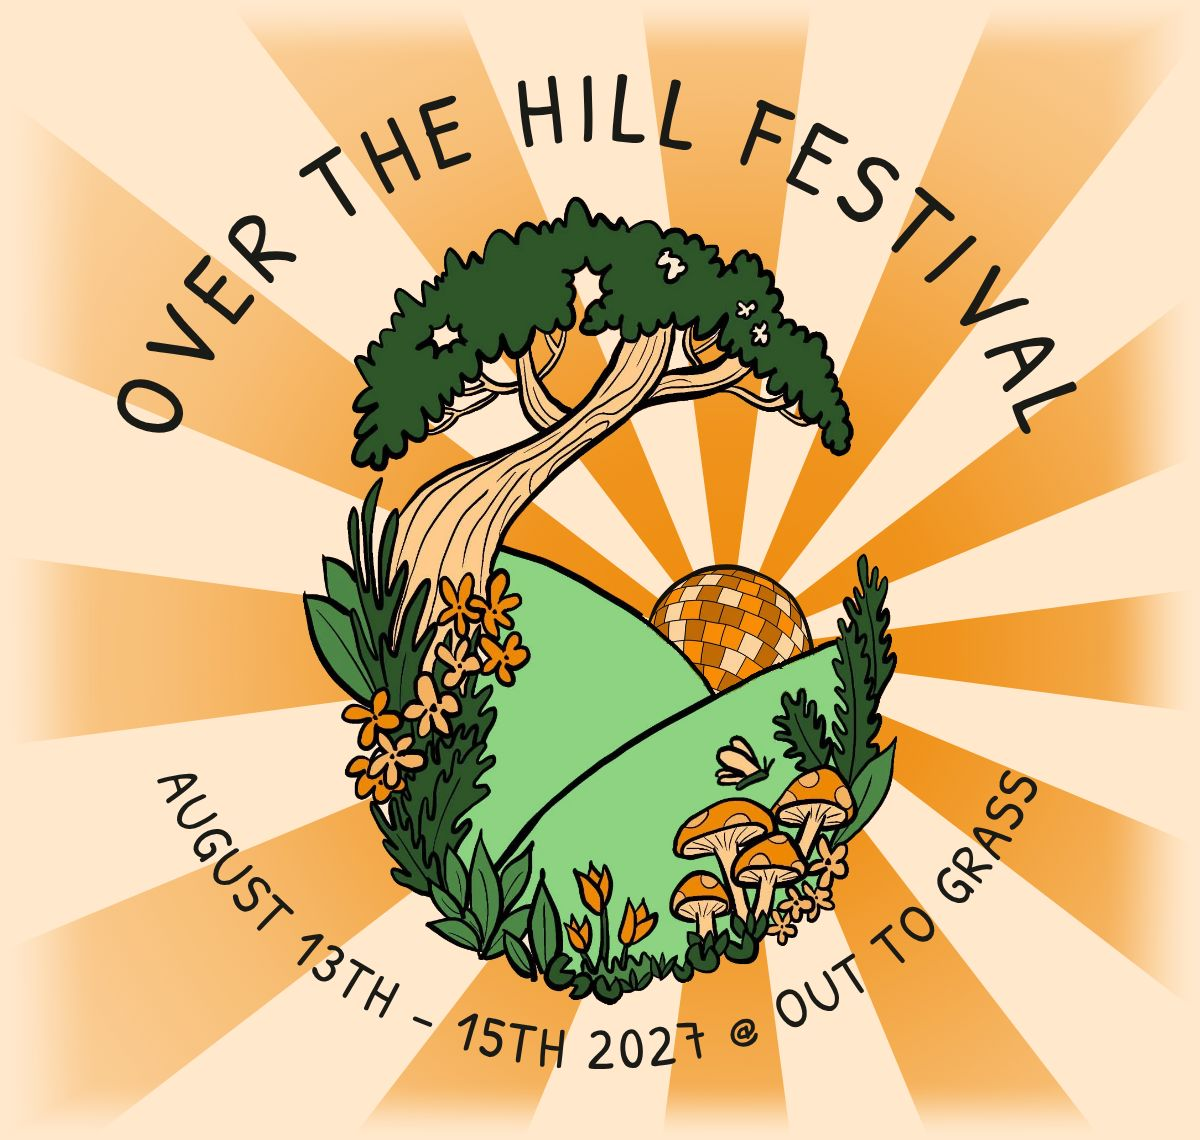
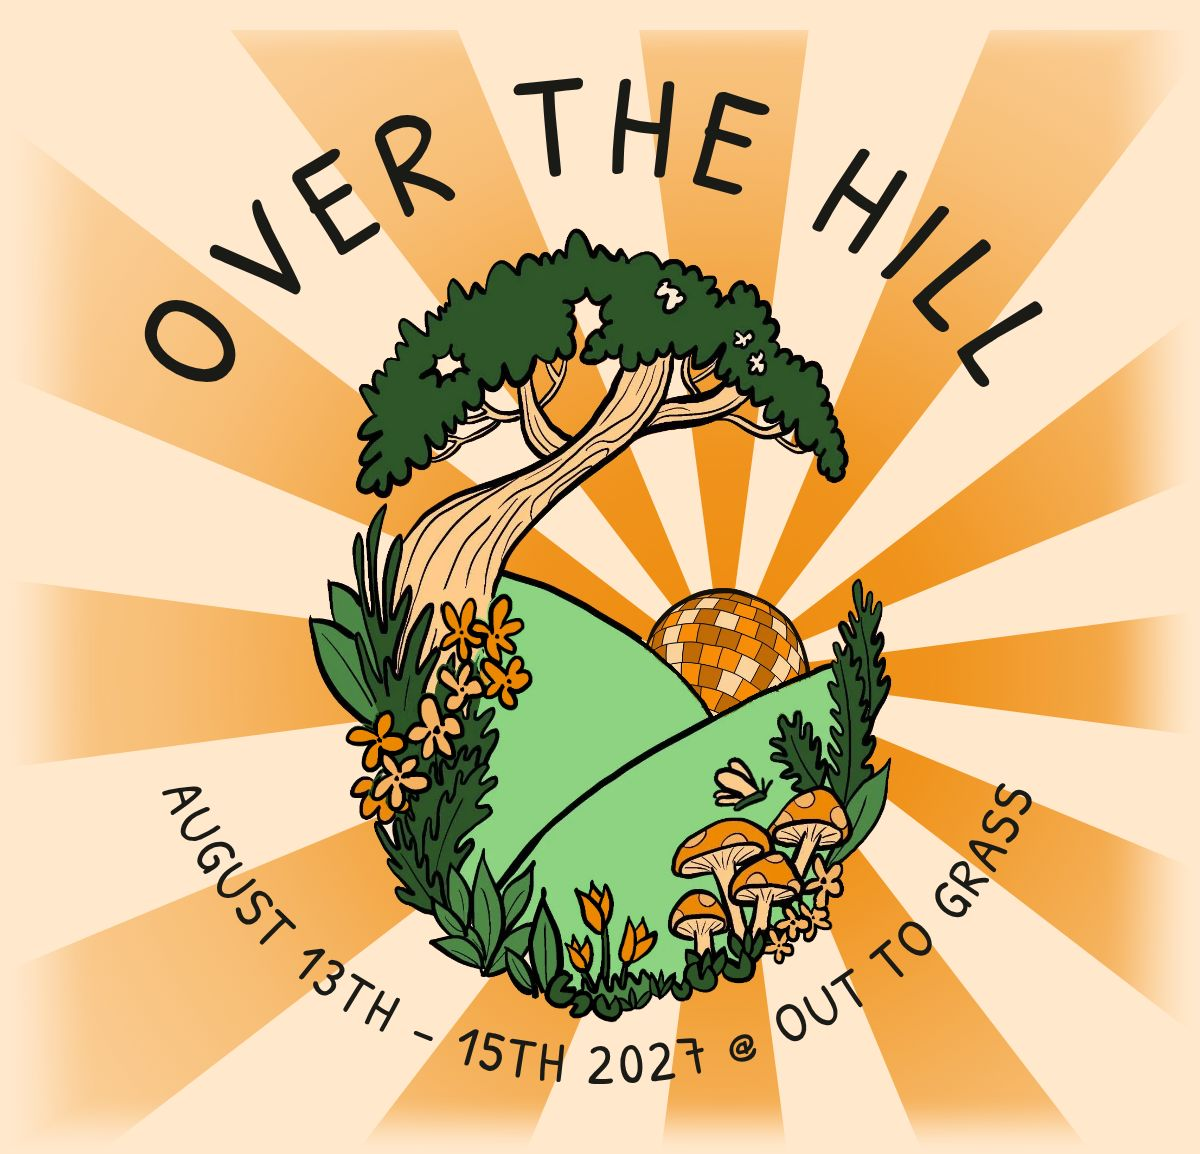
Poster title: "OVER THE HILL", bigger (88px -> 128px)
"Festival" dropped from the arcing title, and the letters made much
bigger to fill the arc. The invite line's arc moves out to clear them,
with room above it, and the poster's fit sums follow, so it stays the
same size on the homepage and invites with everything on the first
screen. The email header image is re-rendered from the new poster.

diff --git a/public/css/style.css b/public/css/style.css
@@ -387,27 +387,27 @@ h2 {
    visible without scrolling. Its width is the smallest of: the page width,
    900px, and the height left under the header (~87px), the top padding,
    the button and some breathing room (205px in all), turned into a width
-   by the 900:875 box plus the invite line's room (1.0282 in all). 300px
+   by the 900:875 box plus the invite line's room (1.048 in all). 300px
    is the floor for very short windows. svh ignores mobile browser
    toolbars; the vh line is the fallback for browsers without it. */
 .poster-hero-art {
   position: relative;
-  --poster-width: min(100%, 900px, max(300px, calc((100vh - 205px) / 1.0282)));
+  --poster-width: min(100%, 900px, max(300px, calc((100vh - 205px) / 1.048)));
   width: var(--poster-width);
   aspect-ratio: 900 / 875;
 }
 
 @supports (height: 100svh) {
   .poster-hero-art {
-    --poster-width: min(100%, 900px, max(300px, calc((100svh - 205px) / 1.0282)));
+    --poster-width: min(100%, 900px, max(300px, calc((100svh - 205px) / 1.048)));
   }
 }
 
-/* Room above for the invite line's arc, which reaches 50 units (of 900)
+/* Room above for the invite line's arc, which reaches 68 units (of 900)
    above the box. (Both percentages here are of the same width, the column
    the poster sits in.) */
 .poster-hero-art.has-invite {
-  margin-top: calc(var(--poster-width) * 0.056);
+  margin-top: calc(var(--poster-width) * 0.076);
 }
 
 .poster-hero-art img {
@@ -433,8 +433,8 @@ h2 {
 }
 
 .poster-arc-title {
-  font-size: 88px;
-  letter-spacing: 8px;
+  font-size: 128px;
+  letter-spacing: 12px;
 }
 
 .poster-arc-date {
